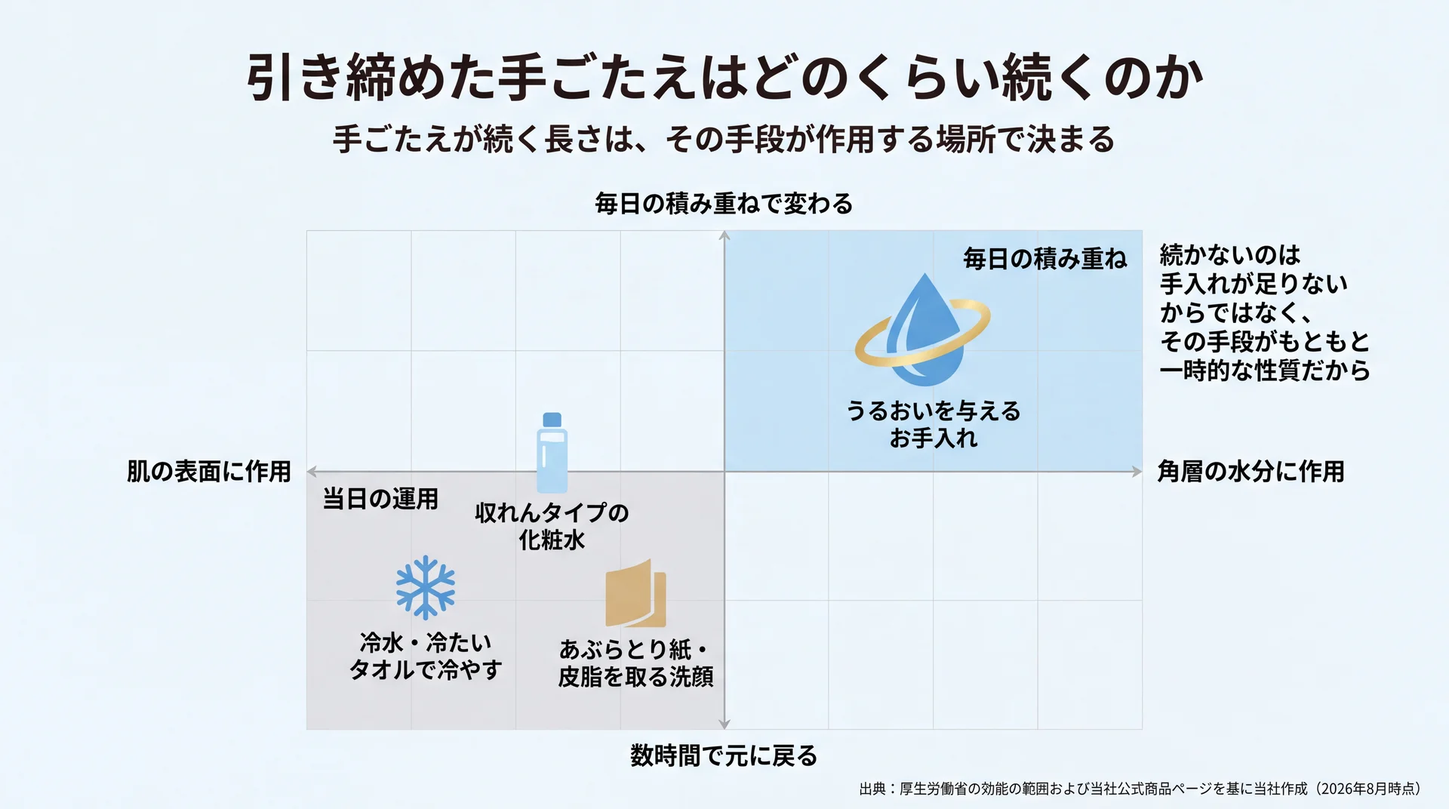
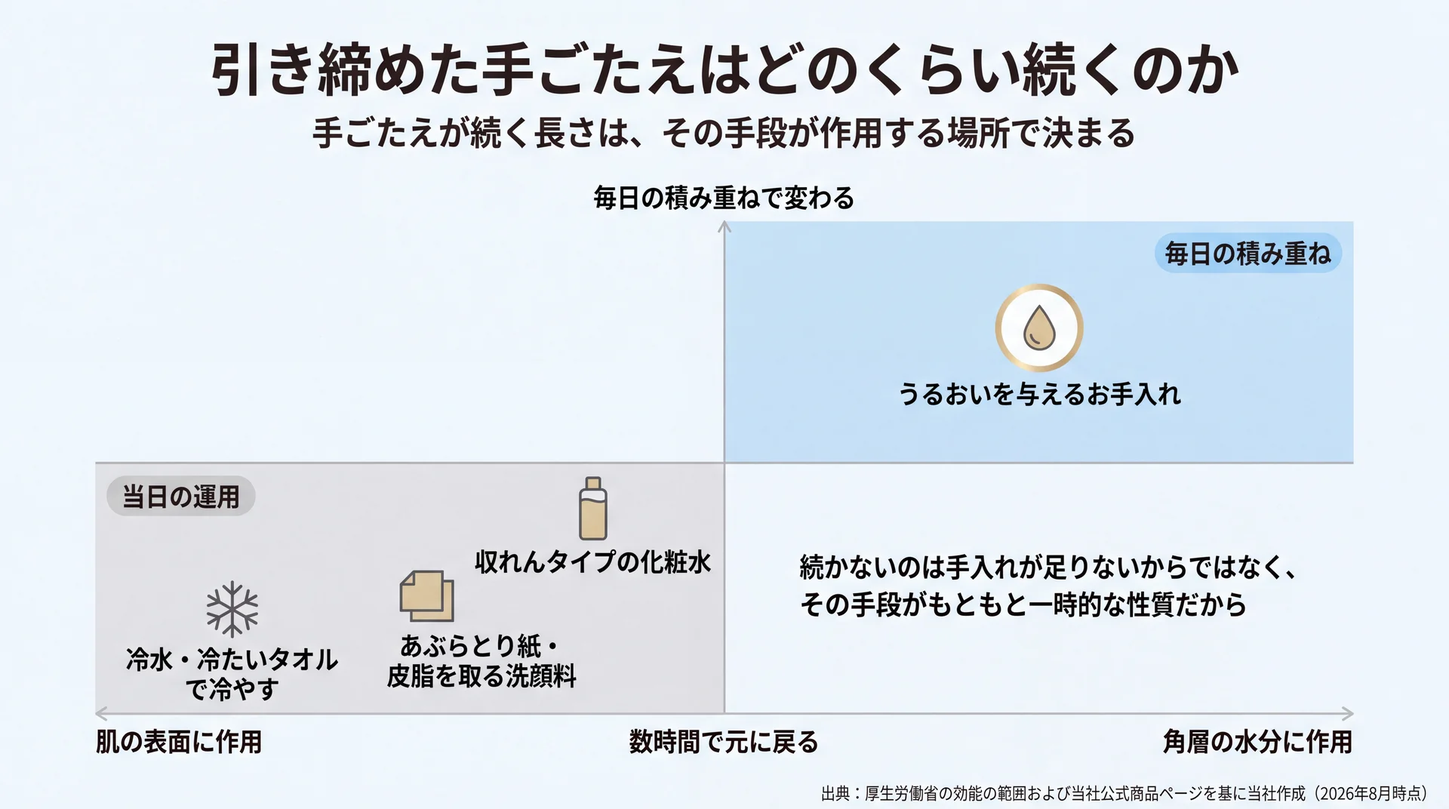
publish: orbis-u-pore-tightening

diff --git a/2026/08/orbis-u-pore-tightening.html b/2026/08/orbis-u-pore-tightening.html
@@ -57,7 +57,7 @@
 </style><h1 style="font-size:32px; font-weight:700; margin:24px 0 16px; padding-bottom:10px; border-bottom:1px solid #eaeef2; line-height:1.3;">毛穴引き締めで本当にできること｜手ごたえが続く目安と使いどころ</h1>
 <p style="margin:14px 0; line-height:1.7;">毛穴引き締めでできるのは、うるおいと皮脂の量を整えて毛穴を目立ちにくく見せることまでです。化粧品に認められた効能の一覧には、毛穴を対象にした項目が1つもありません。手ごたえがどれくらい続くのかを先に知っておくと、その場のケアと毎日のお手入れを取り違えずに済みます。</p>
 <h2 style="font-size:24px; font-weight:600; margin:32px 0 16px; padding-bottom:8px; border-bottom:1px solid #eaeef2; line-height:1.3;">毛穴引き締めで実際にできることは何か</h2>
-<p style="margin:14px 0; line-height:1.7;"><img src="https://shun-toda.github.io/html-publish/2026/08/orbis-u-pore-tightening/h2_01_%E3%81%A7%E3%81%8D%E3%82%8B%E3%81%93%E3%81%A8_%E5%8A%B9%E8%83%BD%E7%AF%84%E5%9B%B2.webp" alt="化粧品の効能56項目中、毛穴を対象にした項目は0件。毛穴の見え方は(19)(20)(23)(24)(30)の組み合わせで表現されることを示した図" loading="lazy" style="max-width:100%; height:auto; display:block; margin:16px auto; border-radius:6px;" /><br><em>効能の範囲に「毛穴」の語はなく、関連する5項目の組み合わせで表現される（出典: 厚生労働省「化粧品の効能の範囲」を基に当社作成／2026年8月時点）＊図はイメージです</em></p>
+<p style="margin:14px 0; line-height:1.7;"><img src="https://shun-toda.github.io/html-publish/2026/08/orbis-u-pore-tightening/h2_01_%E3%81%A7%E3%81%8D%E3%82%8B%E3%81%93%E3%81%A8_%E5%8A%B9%E8%83%BD%E7%AF%84%E5%9B%B2.webp" alt="通称「毛穴引き締め」を化粧品の効能の言葉に翻訳し、ひきしめる・キメを整える・うるおいとはりを与えるの3つの働きでキメが整い毛穴が目立ちにくく見えるまでを示した図" loading="lazy" style="max-width:100%; height:auto; display:block; margin:16px auto; border-radius:6px;" /><br><em>化粧品の毛穴ケアの実体は「ひきしめる・キメを整える・うるおいとはりを与える」の3つの働き＊——毛穴そのものを治す・小さくする効能は存在しない（＊キメの乱れによる目立ちの場合。出典: 厚生労働省「化粧品の効能の範囲」を基に当社作成／2026年8月時点）</em></p>
 <p style="margin:14px 0; line-height:1.7;">化粧品に認められた効能は「肌をひきしめる」までで、毛穴を対象にした効能はありません。<a href="https://www.mhlw.go.jp/web/t_doc?dataId=00tb7518&dataType=1&pageNo=" style="color:#0969da; text-decoration:none; border-bottom:1px solid #eaeef2;">厚生労働省が定める化粧品の効能の範囲</a>（平成23年7月21日通知）は56項目ありますが、そのすべてを通しても毛穴という語は出てきません（2026年8月時点）。引き締めという言葉が指しているのは、毛穴そのものではなく肌の状態です。</p>
 <h3 style="font-size:20px; font-weight:600; margin:24px 0 12px; line-height:1.3;">化粧品が言える「ひきしめる」の範囲</h3>
 <p style="margin:14px 0; line-height:1.7;">56項目の効能一覧には、(23)として「肌をひきしめる。」が並んでいます。ここで対象になっているのは<strong>肌</strong>であり、毛穴という語は一覧のどこにも出てきません。あわせて (19)「肌を整える。」(20)「肌のキメを整える。」(24)「皮膚にうるおいを与える。」(30)「肌にはりを与える。」が並び、毛穴の見え方に関わる訴求は、これらの組み合わせとして表現されています。</p>
@@ -68,7 +68,7 @@
 <th style="border:1px solid #d0d7de; padding:8px 12px; text-align:left; font-weight:600;">表現</th>
 <th style="border:1px solid #d0d7de; padding:8px 12px; text-align:left; font-weight:600;">化粧品の効能の範囲での扱い</th>
 <th style="border:1px solid #d0d7de; padding:8px 12px; text-align:left; font-weight:600;">読者が期待していいこと</th>
-<th style="border:1px solid #d0d7de; padding:8px 12px; text-align:left; font-weight:600;">当社の表現</th>
+<th style="border:1px solid #d0d7de; padding:8px 12px; text-align:left; font-weight:600;">オルビスの表現</th>
 </tr>
 </thead>
 <tbody><tr>
@@ -96,13 +96,13 @@
 <td style="border:1px solid #d0d7de; padding:8px 12px;">「毛穴汚れや不要な角質をやさしく落とす」</td>
 </tr>
 </tbody></table></div>
-<p style="margin:14px 0; line-height:1.7;">（効能項目は上記の厚生労働省の通知、当社の表現は当社の公式商品ページに基づく整理です／2026年8月時点）</p>
-<h3 style="font-size:20px; font-weight:600; margin:24px 0 12px; line-height:1.3;">当社が毛穴について言えること・言えないこと</h3>
-<p style="margin:14px 0; line-height:1.7;">当社のオルビスユーは、洗顔料・化粧水・保湿液の3製品がいずれも医薬部外品です。<a href="https://www.orbis.co.jp/small/11010381/" style="color:#0969da; text-decoration:none; border-bottom:1px solid #eaeef2;">当社のオルビスユー フォーミングウォッシュ</a>にはグリチルリチン酸２Ｋ、<a href="https://www.orbis.co.jp/small/11010382/" style="color:#0969da; text-decoration:none; border-bottom:1px solid #eaeef2;">エッセンスローション</a>と<a href="https://www.orbis.co.jp/small/11010383/" style="color:#0969da; text-decoration:none; border-bottom:1px solid #eaeef2;">ジェルモイスチャライザー</a>にはデクスパンテノールＷを配合していますが、これらはいずれも<strong>肌荒れ防止有効成分</strong>であり、認められている効能は肌荒れを防ぐことです。毛穴に関する効能ではありません。</p>
-<p style="margin:14px 0; line-height:1.7;">そのため当社は、自社の製品についても「毛穴を引き締める」とは書きません。当社が毛穴について言えるのは、<span style="background:linear-gradient(transparent 60%,#FFFF00 60%)"><strong>キメの乱れによる毛穴の目立ちを、うるおいで目立ちにくく見せるところまで</strong></span>です。毛穴のタイプごとの原因整理は<a href="/magazine/pore-open/" style="color:#0969da; text-decoration:none; border-bottom:1px solid #eaeef2;">毛穴の開きの原因を3タイプに分けて整理した記事</a>にまとめています。市販品どうしの価格や成分の比較は扱いません。</p>
+<p style="margin:14px 0; line-height:1.7;">（効能項目は上記の厚生労働省の通知、オルビスの表現はオルビス公式商品ページに基づく整理です／2026年8月時点）</p>
+<h3 style="font-size:20px; font-weight:600; margin:24px 0 12px; line-height:1.3;">オルビスが毛穴について言えること・言えないこと</h3>
+<p style="margin:14px 0; line-height:1.7;">オルビスユーは、洗顔料・化粧水・保湿液の3製品がいずれも医薬部外品です。<a href="https://www.orbis.co.jp/small/11010381/" style="color:#0969da; text-decoration:none; border-bottom:1px solid #eaeef2;">オルビスユー フォーミングウォッシュ</a>にはグリチルリチン酸２Ｋ、<a href="https://www.orbis.co.jp/small/11010382/" style="color:#0969da; text-decoration:none; border-bottom:1px solid #eaeef2;">エッセンスローション</a>と<a href="https://www.orbis.co.jp/small/11010383/" style="color:#0969da; text-decoration:none; border-bottom:1px solid #eaeef2;">ジェルモイスチャライザー</a>にはデクスパンテノールＷを配合していますが、これらはいずれも<strong>肌荒れ防止有効成分</strong>であり、認められている効能は肌荒れを防ぐことです。毛穴に関する効能ではありません。</p>
+<p style="margin:14px 0; line-height:1.7;">そのためオルビスは、自社の製品についても「毛穴を引き締める」とは書きません。毛穴について言えるのは、<span style="background:linear-gradient(transparent 60%,#FFFF00 60%)"><strong>キメの乱れによる毛穴の目立ちを、うるおいで目立ちにくく見せるところまで</strong></span>です。毛穴のタイプごとの原因整理は<a href="/magazine/pore-open/" style="color:#0969da; text-decoration:none; border-bottom:1px solid #eaeef2;">毛穴の開きの原因を3タイプに分けて整理した記事</a>にまとめています。市販品どうしの価格や成分の比較は扱いません。</p>
 <p style="margin:14px 0; line-height:1.7;"><strong>要点:</strong> 「引き締め」は毛穴を対象にした効能ではなく、肌をひきしめる・うるおいを与えるという効能の通称です。製品を選ぶときは、引き締めという文字ではなく何に作用するのかを見てください。</p>
 <h2 style="font-size:24px; font-weight:600; margin:32px 0 16px; padding-bottom:8px; border-bottom:1px solid #eaeef2; line-height:1.3;">その場で変えられることと、変えられないこと</h2>
-<p style="margin:14px 0; line-height:1.7;"><img src="https://shun-toda.github.io/html-publish/2026/08/orbis-u-pore-tightening/h2_02_%E3%81%9D%E3%81%AE%E5%A0%B4%E3%81%A7%E5%A4%89%E3%81%88%E3%82%89%E3%82%8C%E3%82%8B%E3%81%93%E3%81%A8.webp" alt="その場で動かせるのは表面の水分と皮脂だけで、冷やすのは1回まで・収れん後もうるおいを補う工程は別に確保という3つの境目を整理した図" loading="lazy" style="max-width:100%; height:auto; display:block; margin:16px auto; border-radius:6px;" /><br><em>冷やす・皮脂を取る・収れんタイプの化粧水で、どこまでが肌の表面の話かを整理（当社の製品設計と使用方法の考え方に基づく整理／2026年8月時点）＊図はイメージです</em></p>
+<p style="margin:14px 0; line-height:1.7;"><img src="https://shun-toda.github.io/html-publish/2026/08/orbis-u-pore-tightening/h2_02_%E3%81%9D%E3%81%AE%E5%A0%B4%E3%81%A7%E5%A4%89%E3%81%88%E3%82%89%E3%82%8C%E3%82%8B%E3%81%93%E3%81%A8.webp" alt="その場で動かせるのは表面の水分と皮脂だけで、冷やすのは1回まで・収れん後もうるおいを補う工程は別に確保という3つの境目を整理した図" loading="lazy" style="max-width:100%; height:auto; display:block; margin:16px auto; border-radius:6px;" /><br><em>その場で動かせるのは肌の表面の水分と皮脂の2つだけで、毛穴の形そのものは変わらない——取ることと補うことはセットで考える（当社の製品設計と使用方法の考え方に基づく整理／2026年8月時点）＊図はイメージです</em></p>
 <p style="margin:14px 0; line-height:1.7;">毛穴引き締めとして紹介される方法がその場で変えられるのは、肌の表面にある水分と皮脂の状態までです。皮脂が多いと毛穴のふちに影ができて目立ち、水分が足りないとキメが乱れて同じように目立って見えます。逆にいえば、<strong>この2つを整えることが、その場でできることのすべて</strong>にあたります。</p>
 <h3 style="font-size:20px; font-weight:600; margin:24px 0 12px; line-height:1.3;">冷やす・皮脂を取るときに起きていること</h3>
 <p style="margin:14px 0; line-height:1.7;">冷水ですすぐ、冷やしたタオルを当てるといった方法は、肌の表面の温度を一時的に下げます。表面の温度が下がるとテカリが目立ちにくくなり、肌が引き締まった印象になります。あぶらとり紙や洗顔で皮脂を取り除く方法も、<strong>表面にある皮脂の量を減らす</strong>という点では同じ働きです。</p>
@@ -114,7 +114,7 @@
 <p style="margin:14px 0; line-height:1.7;">引き締めを目的に選ばれやすいのが、収れんタイプと呼ばれる化粧水です。名前のとおり肌の感触を引き締める方向に働くもので、つけた直後の肌の表面を落ち着かせ、皮脂によるテカリを抑える役割を担います。ここでも作用しているのは肌の表面であって、毛穴の形が変わっているわけではありません。</p>
 <p style="margin:14px 0; line-height:1.7;">このタイプを使うときに気をつけたいのは、水分を補う工程を置き換えてしまうことです。さっぱりした使用感で満足してしまい、そのあとの保湿を省くと、前の項目で挙げたとおり水分が減ってキメが乱れます。<strong>収れんタイプを使う場合も、うるおいを補う工程は別に確保してください。</strong>さっぱり感の強さと、肌に残る水分の量は別の話だからです。</p>
 <h2 style="font-size:24px; font-weight:600; margin:32px 0 16px; padding-bottom:8px; border-bottom:1px solid #eaeef2; line-height:1.3;">引き締めた手ごたえはどのくらい続くのか</h2>
-<p style="margin:14px 0; line-height:1.7;"><img src="https://shun-toda.github.io/html-publish/2026/08/orbis-u-pore-tightening/h2_03_%E6%89%8B%E3%81%94%E3%81%9F%E3%81%88_%E6%8C%81%E7%B6%9A.webp" alt="冷水・あぶらとり紙・収れんタイプの化粧水は肌の表面に作用して数時間で戻り、うるおいのお手入れだけが角層の水分に作用することを示した配置図" loading="lazy" style="max-width:100%; height:auto; display:block; margin:16px auto; border-radius:6px;" /><br><em>作用する場所（横軸）と手ごたえの続き方（縦軸）で4つの手段を配置（出典: 厚生労働省の効能の範囲および当社公式商品ページを基に当社作成／2026年8月時点）＊図はイメージです</em></p>
+<p style="margin:14px 0; line-height:1.7;"><img src="https://shun-toda.github.io/html-publish/2026/08/orbis-u-pore-tightening/h2_03_%E6%89%8B%E3%81%94%E3%81%9F%E3%81%88_%E6%8C%81%E7%B6%9A.webp" alt="冷水・あぶらとり紙・収れんタイプの化粧水は肌の表面に作用して数時間で戻り、うるおいのお手入れだけが角層の水分に作用することを示した配置図" loading="lazy" style="max-width:100%; height:auto; display:block; margin:16px auto; border-radius:6px;" /><br><em>肌の表面に作用する手当ては数時間で元に戻り、角層の水分に働くうるおいのお手入れだけが積み重なる——続かないのは手入れ不足ではなく手段の性質（出典: 厚生労働省の効能の範囲および当社公式商品ページを基に当社作成／2026年8月時点）</em></p>
 <p style="margin:14px 0; line-height:1.7;">冷やす・皮脂を取るといった方法の手ごたえは、肌の表面の状態が戻るまでの一時的なものです。温度は時間が経てば戻りますし、皮脂は取り除いたそばから分泌が続きます。<span style="color:red"><strong>続かないのは手入れが足りないからではなく、その手段がもともと一時的な性質だから</strong></span>です。</p>
 <div style="overflow-x:auto; margin:18px 0;"><table style="border-collapse:collapse; width:100%; font-size:14px;">
 <thead style="background:#f6f8fa;">
@@ -122,7 +122,7 @@
 <th style="border:1px solid #d0d7de; padding:8px 12px; text-align:left; font-weight:600;">手段</th>
 <th style="border:1px solid #d0d7de; padding:8px 12px; text-align:left; font-weight:600;">何に作用するか</th>
 <th style="border:1px solid #d0d7de; padding:8px 12px; text-align:left; font-weight:600;">手ごたえが続く目安</th>
-<th style="border:1px solid #d0d7de; padding:8px 12px; text-align:left; font-weight:600;">当社の位置づけ</th>
+<th style="border:1px solid #d0d7de; padding:8px 12px; text-align:left; font-weight:600;">オルビスの位置づけ</th>
 </tr>
 </thead>
 <tbody><tr>
@@ -150,7 +150,7 @@
 <td style="border:1px solid #d0d7de; padding:8px 12px;">毎日の積み重ね</td>
 </tr>
 </tbody></table></div>
-<p style="margin:14px 0; line-height:1.7;">（効能上の作用範囲は前掲の厚生労働省の通知、当社製品の設計は当社の公式商品ページに基づく整理です／2026年8月時点。続く長さは肌の状態・環境・製品によって変わるため、時間数では示していません）</p>
+<p style="margin:14px 0; line-height:1.7;">（効能上の作用範囲は前掲の厚生労働省の通知、オルビス製品の設計はオルビス公式商品ページに基づく整理です／2026年8月時点。続く長さは肌の状態・環境・製品によって変わるため、時間数では示していません）</p>
 <h3 style="font-size:20px; font-weight:600; margin:24px 0 12px; line-height:1.3;">手段別に見た手ごたえが続く目安</h3>
 <p style="margin:14px 0; line-height:1.7;">上の表で分けたとおり、手段は<strong>当日の運用</strong>と<strong>毎日の積み重ね</strong>の2つに分かれます。当日の運用にあたる手段は、力が弱いのではなく、作用する対象が肌の表面にあるために時間とともに元へ戻ります。数時間で戻ることを前提に、必要な場面で使う道具として扱うほうが無駄がありません。</p>
 <p style="margin:14px 0; line-height:1.7;">一方で毎日の積み重ねにあたるうるおいのお手入れは、その場の手ごたえが地味です。角層の水分量とキメは1日で大きく変わるものではないためです。<strong>この2つを同じ土俵で比べて、手ごたえが強いほうを選び続けると、いつまでも当日の運用だけを繰り返すことになります。</strong></p>
@@ -194,7 +194,7 @@
 </tr>
 </tbody></table></div>
 <p style="margin:14px 0; line-height:1.7;">（当社の製品設計と使用方法の考え方に基づく整理です／2026年8月時点）</p>
-<p style="margin:14px 0; line-height:1.7;"><img src="https://shun-toda.github.io/html-publish/2026/08/orbis-u-pore-tightening/orbisu_%E3%83%88%E3%83%A9%E3%82%A4%E3%82%A2%E3%83%AB%E3%82%BB%E3%83%83%E3%83%88_3STEP.webp" alt="オルビスユー トライアルセットのパッケージと、洗顔料・化粧水・保湿液のトライアルサイズ3点" loading="lazy" style="max-width:100%; height:auto; display:block; margin:16px auto; border-radius:6px;" /><br><em>※お届け商品はトライアルサイズとなります（フォーミングウォッシュ14g・エッセンスローション20mL・ジェルモイスチャライザー9g／7日間分）。オルビス提供の公式素材（未加工）</em></p>
+<p style="margin:14px 0; line-height:1.7;"><img src="https://shun-toda.github.io/html-publish/2026/08/orbis-u-pore-tightening/orbisu_%E3%83%88%E3%83%A9%E3%82%A4%E3%82%A2%E3%83%AB%E3%82%BB%E3%83%83%E3%83%88_3STEP.webp" alt="オルビスユー トライアルセットのパッケージと、洗顔料・化粧水・保湿液のトライアルサイズ3点" loading="lazy" style="max-width:100%; height:auto; display:block; margin:16px auto; border-radius:6px;" /><br><em>※お届け商品はトライアルサイズとなります（フォーミングウォッシュ14g・エッセンスローション20mL・ジェルモイスチャライザー9g／7日間分）</em></p>
 <!-- wp:group {"style":{"border":{"radius":"16px","color":"#fbd6e0","style":"solid","width":"1px"},"spacing":{"padding":{"top":"24px","right":"20px","bottom":"24px","left":"20px"}}},"layout":{"type":"constrained"}} -->
 <div class="wp-block-group has-border-color" style="border-color:#fbd6e0;border-style:solid;border-width:1px;border-radius:16px;padding-top:24px;padding-right:20px;padding-bottom:24px;padding-left:20px">
 <!-- wp:paragraph {"align":"center","style":{"typography":{"fontWeight":"700"}}} -->
@@ -213,11 +213,11 @@
 <!-- /wp:buttons -->
 </div>
 <!-- /wp:group --><h2 style="font-size:24px; font-weight:600; margin:32px 0 16px; padding-bottom:8px; border-bottom:1px solid #eaeef2; line-height:1.3;">戻りにくい状態へ近づけるうるおいのお手入れ</h2>
-<p style="margin:14px 0; line-height:1.7;"><img src="https://shun-toda.github.io/html-publish/2026/08/orbis-u-pore-tightening/kv_orbisu_%E6%AF%9B%E7%A9%B4%E7%9B%AE%E7%AB%8B%E3%81%A1%E3%82%82%E8%82%8C%E8%8D%92%E3%82%8C%E3%82%82.webp" alt="オルビスユーの洗顔料・化粧水・保湿液3品と「毛穴目立ち＊1も肌荒れ＊2も。みずみずしく跳ね返す透明感＊3」のコピーが入ったオルビス公式キービジュアル" loading="lazy" style="max-width:100%; height:auto; display:block; margin:16px auto; border-radius:6px;" /><br><em>オルビス提供の公式素材（未加工）。＊1 キメの乱れによる／＊2 肌荒れを防ぐ／＊3 うるおいにより光を反射して透明感のある肌</em></p>
-<p style="margin:14px 0; line-height:1.7;">見え方が戻りにくい状態に近づけるのは、角層のうるおいを毎日切らさないお手入れです。角層の水分が保たれてキメが整うと、肌の表面で光がスムーズに反射し、同じ毛穴でも目立ちにくく見えます。当社はこの点に着目して製品を設計しています。</p>
-<h3 style="font-size:20px; font-weight:600; margin:24px 0 12px; line-height:1.3;">当社が皮脂を減らす方向を採らない理由</h3>
-<p style="margin:14px 0; line-height:1.7;">一般に、毛穴が目立つ肌には皮脂を抑える手段が勧められます。ただし皮脂を取り除く手段は前述のとおり作用が表面にとどまり、水分まで一緒に減らせば逆に目立って見えます。<strong>だから当社のオルビスユーは、皮脂を取り去る方向ではなく、角層のうるおいを満たす方向で毛穴の見え方に向き合っています。</strong></p>
-<p style="margin:14px 0; line-height:1.7;">具体的には、洗顔料は落としきる強さを競うのではなく、毛穴汚れや不要な角質をやさしく落として化粧水のなじみやすい肌に整える設計です。そのうえで化粧水と保湿液で角層のすみずみまで水分を届け、<span style="background:linear-gradient(transparent 60%,#FFFF00 60%)"><strong>キメの乱れによる毛穴の目立ちを、うるおいで目立ちにくく見せる</strong></span>ところが到達点になります。毛穴そのものが変わるとは申し上げません。それが当社の言える範囲だからです。</p>
+<p style="margin:14px 0; line-height:1.7;"><img src="https://shun-toda.github.io/html-publish/2026/08/orbis-u-pore-tightening/kv_orbisu_%E6%AF%9B%E7%A9%B4%E7%9B%AE%E7%AB%8B%E3%81%A1%E3%82%82%E8%82%8C%E8%8D%92%E3%82%8C%E3%82%82.webp" alt="オルビスユーの洗顔料・化粧水・保湿液3品と「毛穴目立ち＊1も肌荒れ＊2も。みずみずしく跳ね返す透明感＊3」のコピーが入ったオルビス公式キービジュアル" loading="lazy" style="max-width:100%; height:auto; display:block; margin:16px auto; border-radius:6px;" /><br><em>＊1 キメの乱れによる／＊2 肌荒れを防ぐ／＊3 うるおいにより光を反射して透明感のある肌</em></p>
+<p style="margin:14px 0; line-height:1.7;">見え方が戻りにくい状態に近づけるのは、角層のうるおいを毎日切らさないお手入れです。角層の水分が保たれてキメが整うと、肌の表面で光がスムーズに反射し、同じ毛穴でも目立ちにくく見えます。オルビスはこの点に着目して製品を設計しています。</p>
+<h3 style="font-size:20px; font-weight:600; margin:24px 0 12px; line-height:1.3;">オルビスが皮脂を減らす方向を採らない理由</h3>
+<p style="margin:14px 0; line-height:1.7;">一般に、毛穴が目立つ肌には皮脂を抑える手段が勧められます。ただし皮脂を取り除く手段は前述のとおり作用が表面にとどまり、水分まで一緒に減らせば逆に目立って見えます。<strong>だからオルビスユーは、皮脂を取り去る方向ではなく、角層のうるおいを満たす方向で毛穴の見え方に向き合っています。</strong></p>
+<p style="margin:14px 0; line-height:1.7;">具体的には、洗顔料は落としきる強さを競うのではなく、毛穴汚れや不要な角質をやさしく落として化粧水のなじみやすい肌に整える設計です。そのうえで化粧水と保湿液で角層のすみずみまで水分を届け、<span style="background:linear-gradient(transparent 60%,#FFFF00 60%)"><strong>キメの乱れによる毛穴の目立ちを、うるおいで目立ちにくく見せる</strong></span>ところが到達点になります。毛穴そのものが変わるとは申し上げません。それがオルビスの言える範囲だからです。</p>
 <h3 style="font-size:20px; font-weight:600; margin:24px 0 12px; line-height:1.3;">毎日のお手入れで見ておきたいこと</h3>
 <p style="margin:14px 0; line-height:1.7;">見るべきは毛穴の数や大きさではなく、<strong>朝と夕方で肌の状態がどれだけ変わるか</strong>です。夕方にかさつきが出るなら水分が足りておらず、昼過ぎからテカるなら水分と皮脂のバランスが崩れている場合があります。どちらも、うるおいを与える側の手当てで変わる余地があります。</p>
 <p style="margin:14px 0; line-height:1.7;">判断の目安は、2〜3週間続けたときに夕方の肌の感じが変わるかどうかです。<span style="color:red"><strong>数日で毛穴の見え方が大きく変わることはありません。</strong></span>ヒリつきや赤みなど気になる症状が出た場合は使用を中止し、続くようであれば皮膚科医へご相談ください。</p>
@@ -233,7 +233,7 @@
 <p style="margin:14px 0; line-height:1.7;"><strong>Q. 男性の肌でも同じ考え方でよいですか？</strong></p>
 <p style="margin:14px 0; line-height:1.7;">考え方は同じです。皮脂の量には個人差がありますが、<span style="color:red"><strong>水分と皮脂のバランスで毛穴の見え方が決まるという構造は変わりません</strong></span>。皮脂が多いほど取り除く方向へ寄せたくなりますが、水分を補う工程を省かない点も同じです。</p>
 <h2 style="font-size:24px; font-weight:600; margin:32px 0 16px; padding-bottom:8px; border-bottom:1px solid #eaeef2; line-height:1.3;">まとめ</h2>
-<p style="margin:14px 0; line-height:1.7;">毛穴引き締めでできるのは、うるおいと皮脂の量を整えて毛穴を目立ちにくく見せることまでです。毛穴そのものを変える効能は、化粧品の効能の範囲にも当社3製品の肌荒れ防止有効成分にも認められていません。冷やす・皮脂を取るといった手段は肌の表面に作用するため、手ごたえは時間とともに戻ります。見え方の戻りにくさを変えたいのであれば、角層のうるおいを毎日切らさないお手入れのほうに時間を配分してください。</p>
+<p style="margin:14px 0; line-height:1.7;">毛穴引き締めでできるのは、うるおいと皮脂の量を整えて毛穴を目立ちにくく見せることまでです。毛穴そのものを変える効能は、化粧品の効能の範囲にも、オルビスユー3製品の肌荒れ防止有効成分にも認められていません。冷やす・皮脂を取るといった手段は肌の表面に作用するため、手ごたえは時間とともに戻ります。見え方の戻りにくさを変えたいのであれば、角層のうるおいを毎日切らさないお手入れのほうに時間を配分してください。</p>
 <!-- wp:group {"style":{"border":{"radius":"16px","color":"#fbd6e0","style":"solid","width":"1px"},"spacing":{"padding":{"top":"24px","right":"20px","bottom":"24px","left":"20px"}}},"layout":{"type":"constrained"}} -->
 <div class="wp-block-group has-border-color" style="border-color:#fbd6e0;border-style:solid;border-width:1px;border-radius:16px;padding-top:24px;padding-right:20px;padding-bottom:24px;padding-left:20px">
 <!-- wp:paragraph {"align":"center","style":{"typography":{"fontWeight":"700"}}} -->
